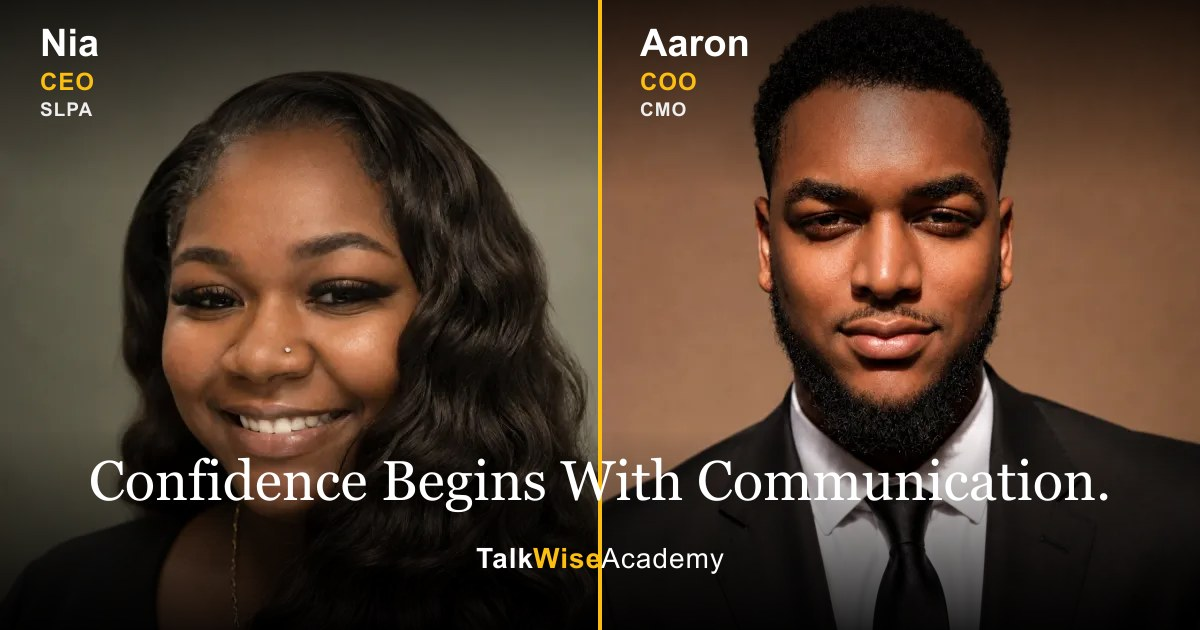
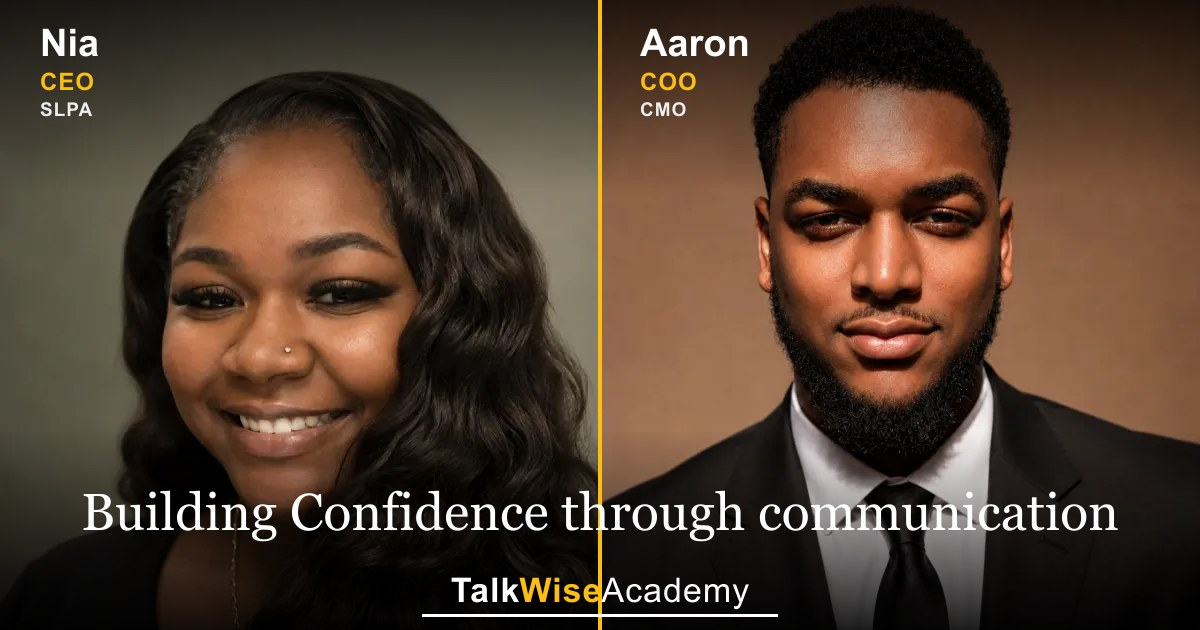
Update OG image tagline and wordmark styling
- Tagline changed to "Building Confidence through communication",
  moved down off Nia's face
- Wordmark enlarged with a white underline, moved to the bottom edge

Changed region(s): [[0.0617, 0.7238, 0.9558, 0.8746], [0.37, 0.8746, 0.6475, 0.9952]]

diff --git a/scripts/build-og-image.js b/scripts/build-og-image.js
@@ -49,14 +49,16 @@ async function main() {
       <text x="${HALF + 40}" y="116" font-family="Arial, sans-serif"
             font-size="19" font-weight="700" letter-spacing="1" fill="#EEEEEE">CMO</text>
 
-      <text x="${W / 2}" y="${H - 130}" text-anchor="middle"
-            font-family="Georgia, 'Times New Roman', serif" font-size="56" fill="#FFFFFF">
-        Confidence Begins With Communication.
+      <text x="${W / 2}" y="${H - 100}" text-anchor="middle"
+            font-family="Georgia, 'Times New Roman', serif" font-size="52" fill="#FFFFFF">
+        Building Confidence through communication
       </text>
-      <text x="${W / 2}" y="${H - 62}" text-anchor="middle" font-family="Arial, sans-serif"
-            font-size="28" font-weight="700" letter-spacing="1">
+
+      <text x="${W / 2}" y="${H - 28}" text-anchor="middle" font-family="Arial, sans-serif"
+            font-size="34" font-weight="700" letter-spacing="1">
         <tspan fill="#FFFFFF">Talk</tspan><tspan fill="#FCBF11">Wise</tspan><tspan fill="#FFFFFF" font-weight="400"> Academy</tspan>
       </text>
+      <rect x="${W / 2 - 178}" y="${H - 16}" width="356" height="3" fill="#FFFFFF"/>
     </svg>
   `);
 
